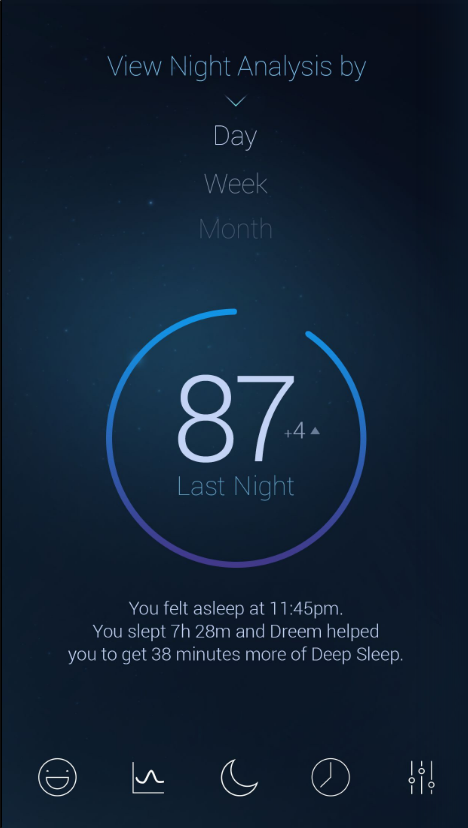
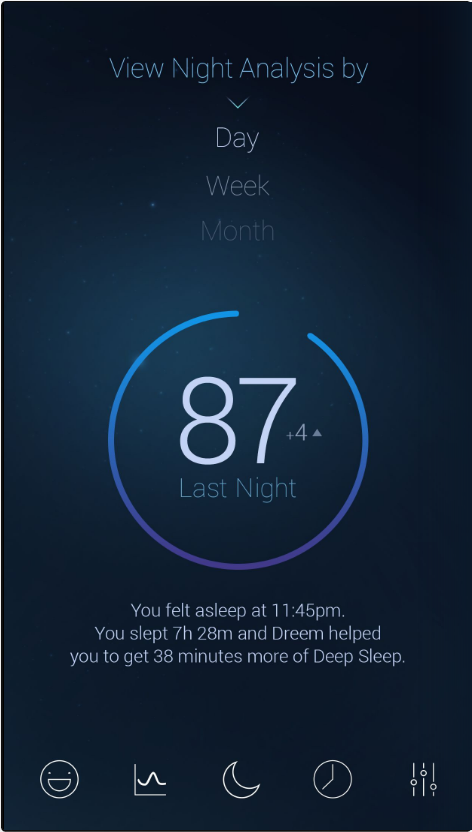
iPhone animation is MUCH prettier

diff --git a/src/rythm-redesign-app/rythm-redesign-app.html b/src/rythm-redesign-app/rythm-redesign-app.html
@@ -85,7 +85,7 @@
         background-color: white;
       }
       #product {
-        display: block;
+        display: inline-block;
         position: relative;
         width: 75%;
         height: 100%;   
@@ -100,18 +100,21 @@
         right: 0px;
       }
       /* iPhone */
+      #phone-container {
+        position: relative;
+        display: inline-block; /* scales div to size of content */
+        line-height: 0; /* gets rid of a couple extra pixels at base of div */
+      }
       .product-photo {
-        position: absolute;
-        width: 80%;
+        width: 60vw;
         height: auto;
-        top: 0;
-        bottom: 0;
-        left: 0;
-        right: 0;
-        margin: auto;
       }
       #picture-frame {
-        height: calc(((.60*100vw)/715) * 600);
+        position: absolute;
+        height: 100%; /* height and width make it same size as parent (phone-container) */
+        width: 100%;
+        top: 0; /* top and left align it with upper left corner of photo */
+        left: 0;
       }
       #screen {
         overflow: hidden;
@@ -224,14 +227,16 @@
             <paper-icon-button id="left" src="images/left-arrow.png" title="left" class="giant" on-tap="goLeft"></paper-icon-button>
             <paper-icon-button id="right" src="images/right-arrow.png" title="right" class="giant" on-tap="goRight"></paper-icon-button>
           </div>
-          <img src="images/product.png" class="product-photo">
-          <div id="picture-frame" class="product-photo">
-            <div id="screen">
-              <neon-animated-pages id="pages" test="5" selected$="[[selected]]" entry-animation="[[entryAnimation]]" exit-animation="[[exitAnimation]]">
-                <neon-animatable><img src="images/screen1.png" class="screen-shot"></neon-animatable>
-                <neon-animatable><img src="images/screen2.png" class="screen-shot"></neon-animatable>
-                <neon-animatable><img src="images/screen3.png" class="screen-shot"></neon-animatable>
-              </neon-animated-pages>
+          <div id="phone-container">
+            <img src="images/product-test.png" class="product-photo">
+            <div id="picture-frame">
+              <div id="screen">
+                <neon-animated-pages id="pages" test="5" selected$="[[selected]]" entry-animation="[[entryAnimation]]" exit-animation="[[exitAnimation]]">
+                  <neon-animatable><img src="images/screen1.png" class="screen-shot"></neon-animatable>
+                  <neon-animatable><img src="images/screen2.png" class="screen-shot"></neon-animatable>
+                  <neon-animatable><img src="images/screen3.png" class="screen-shot"></neon-animatable>
+                </neon-animated-pages>
+              </div>
             </div>
           </div>
         </div>
